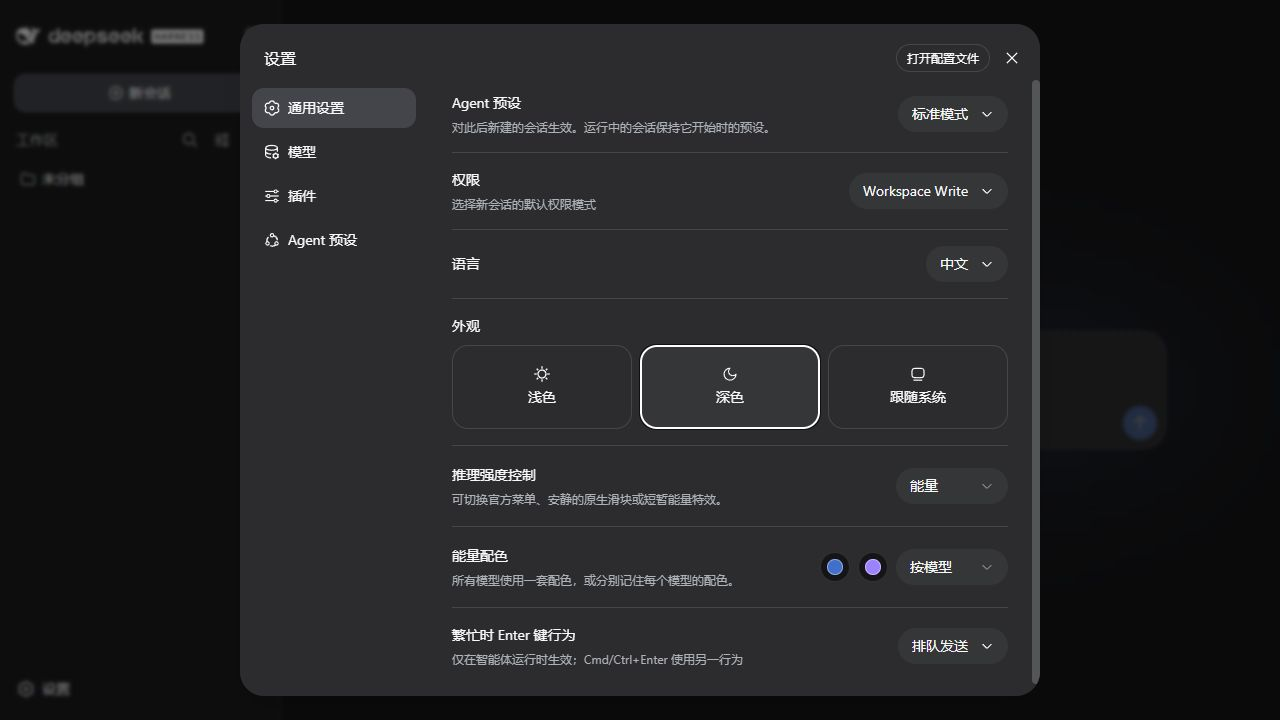
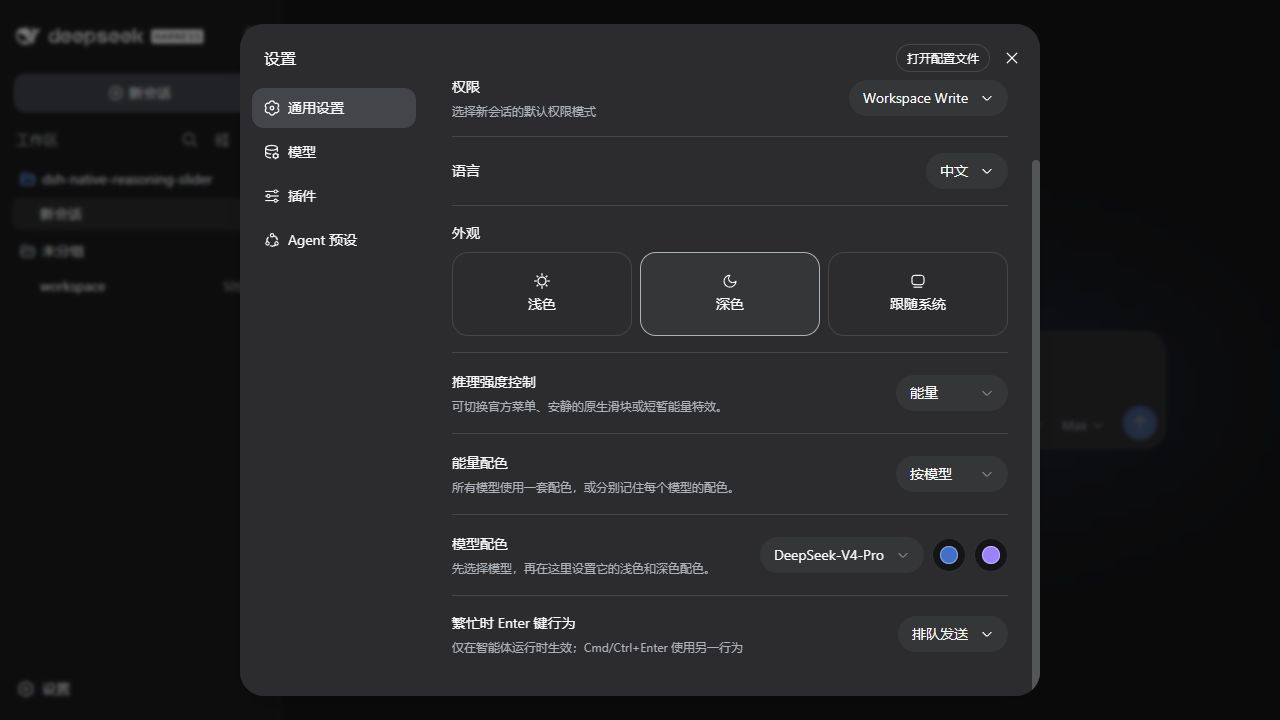
fix: keep color customization in settings

diff --git a/src/client.jsx b/src/client.jsx
@@ -34,6 +34,7 @@ const STORAGE_KEY = 'dsh-native-reasoning-slider.mode'
 const APPEARANCE_KEY = 'dsh-native-reasoning-slider.appearance.v1'
 const listeners = new Set()
 const appearanceListeners = new Set()
+const modelChoiceListeners = new Set()
 
 function storedMode() {
   try { return normalizeMode(window.localStorage.getItem(STORAGE_KEY)) } catch { return 'energy' }
@@ -80,13 +81,26 @@ export const appearanceStore = {
   },
 }
 
+let modelColorChoices = []
+export const modelChoicesStore = {
+  getSnapshot: () => modelColorChoices,
+  subscribe(listener) { modelChoiceListeners.add(listener); return () => modelChoiceListeners.delete(listener) },
+  set(choices) {
+    const next = choices.map(choice => ({ ...choice }))
+    if (JSON.stringify(next) === JSON.stringify(modelColorChoices)) return
+    modelColorChoices = next
+    modelChoiceListeners.forEach(listener => listener())
+  },
+}
+
 const LOCALES = {
   en: {
     settingTitle: 'Reasoning control', settingDescription: 'Use the official menu, a quiet native slider, or transient energy effects.',
     official: 'Official', native: 'Native', energy: 'Energy', model: 'Model', effort: 'Effort', retry: 'Retry',
     colorAssignment: 'Energy colors', colorDescription: 'Use one palette for every model, or remember a palette for each model.',
     allModels: 'All models', eachModel: 'Per model', lightColor: 'Light appearance', darkColor: 'Dark appearance',
-    modelColors: 'Model colors', modelColorsDescription: 'This palette applies to the selected model.',
+    allModelColors: 'Default palette', allModelColorsDescription: 'Used by every model unless per-model colors are enabled.',
+    modelColors: 'Model palette', modelColorsDescription: 'Choose a model, then set its light and dark colors here.',
     loading: 'Loading models…', noModels: 'No available models.', noEfforts: 'This model does not expose reasoning effort levels.',
     selectionFailed: 'The setting was not saved. {message}', groupFailed: '{name}: {message}', selectModel: 'Select model',
   },
@@ -95,7 +109,8 @@ const LOCALES = {
     official: '官方', native: '原生', energy: '能量', model: '模型', effort: '推理强度', retry: '重试',
     colorAssignment: '能量配色', colorDescription: '所有模型使用一套配色，或分别记住每个模型的配色。',
     allModels: '全部模型', eachModel: '按模型', lightColor: '浅色外观', darkColor: '深色外观',
-    modelColors: '模型配色', modelColorsDescription: '这组配色仅应用于当前模型。',
+    allModelColors: '默认配色', allModelColorsDescription: '未启用按模型配色时，所有模型使用这组颜色。',
+    modelColors: '模型配色', modelColorsDescription: '先选择模型，再在这里设置它的浅色和深色配色。',
     loading: '正在加载模型…', noModels: '没有可用模型。', noEfforts: '当前模型未提供推理强度档位。',
     selectionFailed: '设置未保存。{message}', groupFailed: '{name}：{message}', selectModel: '选择模型',
   },
@@ -193,7 +208,6 @@ function EffortSlider({ current, reasoning, select, busy, mode, onFailure, t }) 
           onBlur={event => { if (dragging) void commitAt(Number(event.currentTarget.value)) }}
         />
       </div>
-      {mode === 'energy' && appearance.scope === 'model' ? <div className="nrs-model-colors"><span className="nrs-model-colors-copy"><strong>{t('modelColors')}</strong><small>{t('modelColorsDescription')}</small></span><ColorInput label={t('lightColor')} value={colors.light} onChange={value => appearanceStore.setModel(current.provider, current.model, 'light', value)} /><ColorInput label={t('darkColor')} value={colors.dark} onChange={value => appearanceStore.setModel(current.provider, current.model, 'dark', value)} /></div> : null}
     </section>
   )
 }
@@ -236,6 +250,16 @@ function ModelSliderSelect({ locked, available, directory, load, select, t }) {
     return () => { window.removeEventListener('resize', place); window.removeEventListener('scroll', place, true) }
   }, [open])
   const choices = useMemo(() => state.groups.flatMap(group => group.models.map(model => ({ group, model }))), [state.groups])
+  useEffect(() => {
+    if (!available) { modelChoicesStore.set([]); return }
+    modelChoicesStore.set(choices.map(({ group, model }) => ({
+      id: modelColorKey(group.id, model.id),
+      label: model.name,
+      provider: group.id,
+      model: model.id,
+      current: state.current?.provider === group.id && state.current?.model === model.id,
+    })))
+  }, [available, choices, state.current?.provider, state.current?.model])
   if (!available) return null
   const currentChoice = state.current === null ? undefined : choices.find(entry => entry.group.id === state.current.provider && entry.model.id === state.current.model)
   const reasoning = currentChoice?.model.reasoning
@@ -312,8 +336,8 @@ function ModelSliderSelect({ locked, available, directory, load, select, t }) {
   )
 }
 
-function ColorInput({ label, onChange, value }) {
-  return <label className="nrs-color-control" title={label}><input type="color" value={value} aria-label={label} onChange={event => onChange(event.currentTarget.value)} /><span aria-hidden="true" style={{ background: value }} /></label>
+function ColorInput({ disabled = false, label, onChange, value }) {
+  return <label className={`nrs-color-control ${disabled ? 'is-disabled' : ''}`} title={label}><input type="color" value={value} aria-label={label} disabled={disabled} onChange={event => onChange(event.currentTarget.value)} /><span aria-hidden="true" style={{ background: value }} /></label>
 }
 
 function SettingsMenu({ items, onSelect, selected, t }) {
@@ -321,13 +345,32 @@ function SettingsMenu({ items, onSelect, selected, t }) {
   return <Menu open={open} align="end" side="bottom" portal compact selectedId={selected} items={items.map(entry => ({ id: entry, label: t(entry) }))} onSelect={entry => { onSelect(entry); setOpen(false) }} onClose={() => setOpen(false)} anchor={<button type="button" className="nrs-mode-picker" aria-haspopup="menu" aria-expanded={open} onClick={() => setOpen(value => !value)}><span>{t(selected)}</span><IconChevronDownOutline14 className={`nrs-chevron ${open ? 'is-open' : ''}`} /></button>} />
 }
 
+function ModelSettingsMenu({ choices, onSelect, selected, t }) {
+  const [open, setOpen] = useState(false)
+  const selectedChoice = choices.find(choice => choice.id === selected)
+  return <Menu open={open} align="end" side="bottom" portal compact selectedId={selected} items={choices.map(choice => ({ id: choice.id, label: choice.label }))} onSelect={entry => { onSelect(entry); setOpen(false) }} onClose={() => setOpen(false)} anchor={<button type="button" className="nrs-mode-picker nrs-model-picker" disabled={choices.length === 0} aria-haspopup="menu" aria-expanded={open} onClick={() => setOpen(value => !value)}><span>{selectedChoice?.label ?? t('selectModel')}</span><IconChevronDownOutline14 className={`nrs-chevron ${open ? 'is-open' : ''}`} /></button>} />
+}
+
 function PluginSettings({ t }) {
   const mode = useSyncExternalStore(modeStore.subscribe, modeStore.getSnapshot)
   const appearance = useSyncExternalStore(appearanceStore.subscribe, appearanceStore.getSnapshot)
+  const modelColorChoices = useSyncExternalStore(modelChoicesStore.subscribe, modelChoicesStore.getSnapshot)
   const scope = appearance.scope === 'model' ? 'eachModel' : 'allModels'
+  const [selectedPaletteModel, setSelectedPaletteModel] = useState('')
+  useEffect(() => {
+    if (modelColorChoices.some(choice => choice.id === selectedPaletteModel)) return
+    setSelectedPaletteModel(modelColorChoices.find(choice => choice.current)?.id ?? modelColorChoices[0]?.id ?? '')
+  }, [modelColorChoices, selectedPaletteModel])
+  const selectedChoice = modelColorChoices.find(choice => choice.id === selectedPaletteModel)
+  const palette = selectedChoice === undefined ? appearance.global : resolveColors({ ...appearance, scope: 'model' }, selectedChoice.provider, selectedChoice.model)
+  const setPaletteColor = (theme, value) => {
+    if (appearance.scope === 'model' && selectedChoice !== undefined) appearanceStore.setModel(selectedChoice.provider, selectedChoice.model, theme, value)
+    else appearanceStore.setGlobal(theme, value)
+  }
   return <>
     <div className="nrs-mode-row"><div className="nrs-mode-copy"><div className="nrs-mode-title">{t('settingTitle')}</div><div className="nrs-mode-description">{t('settingDescription')}</div></div><SettingsMenu items={['official', 'native', 'energy']} selected={mode} onSelect={modeStore.set} t={t} /></div>
-    <div className="nrs-mode-row"><div className="nrs-mode-copy"><div className="nrs-mode-title">{t('colorAssignment')}</div><div className="nrs-mode-description">{t('colorDescription')}</div></div><div className="nrs-setting-actions"><ColorInput label={t('lightColor')} value={appearance.global.light} onChange={value => appearanceStore.setGlobal('light', value)} /><ColorInput label={t('darkColor')} value={appearance.global.dark} onChange={value => appearanceStore.setGlobal('dark', value)} /><SettingsMenu items={['allModels', 'eachModel']} selected={scope} onSelect={entry => appearanceStore.setScope(entry === 'eachModel' ? 'model' : 'global')} t={t} /></div></div>
+    <div className="nrs-mode-row"><div className="nrs-mode-copy"><div className="nrs-mode-title">{t('colorAssignment')}</div><div className="nrs-mode-description">{t('colorDescription')}</div></div><SettingsMenu items={['allModels', 'eachModel']} selected={scope} onSelect={entry => appearanceStore.setScope(entry === 'eachModel' ? 'model' : 'global')} t={t} /></div>
+    <div className="nrs-mode-row"><div className="nrs-mode-copy"><div className="nrs-mode-title">{t(appearance.scope === 'model' ? 'modelColors' : 'allModelColors')}</div><div className="nrs-mode-description">{t(appearance.scope === 'model' ? 'modelColorsDescription' : 'allModelColorsDescription')}</div></div><div className="nrs-setting-actions">{appearance.scope === 'model' ? <ModelSettingsMenu choices={modelColorChoices} selected={selectedPaletteModel} onSelect={setSelectedPaletteModel} t={t} /> : null}<ColorInput disabled={appearance.scope === 'model' && selectedChoice === undefined} label={t('lightColor')} value={palette.light} onChange={value => setPaletteColor('light', value)} /><ColorInput disabled={appearance.scope === 'model' && selectedChoice === undefined} label={t('darkColor')} value={palette.dark} onChange={value => setPaletteColor('dark', value)} /></div></div>
   </>
 }
 

diff --git a/src/styles.js b/src/styles.js
@@ -35,12 +35,13 @@ export const CSS = String.raw`
 .nrs-effort.is-energy.is-max.is-active .nrs-track-thumb{animation:nrs-max-charge 720ms ease-out both,nrs-max-breathe 520ms ease-in-out 720ms 2 alternate}
 body[data-ds-dark-theme] .nrs-track-fill{background:color-mix(in srgb,var(--nrs-color) 34%,var(--dsw-alias-bg-base))}body[data-ds-dark-theme] .nrs-energy{mix-blend-mode:screen}
 .nrs-effort.is-max.is-active::after{content:"";position:absolute;z-index:1;right:-20px;top:50%;width:118px;height:118px;border-radius:50%;background:radial-gradient(circle,color-mix(in srgb,var(--nrs-color) 62%,white 8%) 0,color-mix(in srgb,var(--nrs-color) 32%,transparent) 38%,transparent 70%);transform:translateY(-50%);animation:nrs-bloom 620ms ease-out both;pointer-events:none}
-.nrs-model-colors{display:flex;align-items:center;gap:8px;margin-top:8px;padding-top:8px;border-top:1px solid var(--dsw-alias-border-l2)}.nrs-model-colors-copy{display:flex;flex:1;flex-direction:column;min-width:0}.nrs-model-colors-copy strong{font-size:11px;line-height:16px;font-weight:500}.nrs-model-colors-copy small{overflow:hidden;color:var(--dsw-alias-label-tertiary);font-size:10px;line-height:14px;text-overflow:ellipsis;white-space:nowrap}.nrs-color-control{position:relative;display:grid;place-items:center;flex:0 0 30px;width:30px;height:30px;border-radius:15px;background:var(--dsw-alias-bg-base);box-shadow:inset 0 0 0 1px var(--dsw-alias-border-l2);cursor:pointer}.nrs-color-control input{position:absolute;width:1px;height:1px;opacity:0}.nrs-color-control span{width:16px;height:16px;border-radius:50%;background:var(--nrs-swatch);box-shadow:inset 0 0 0 1px #ffffff70,0 0 0 1px #00000014}
+.nrs-color-control{position:relative;display:grid;place-items:center;flex:0 0 34px;width:34px;height:34px;border-radius:17px;background:var(--dsw-alias-bg-base);box-shadow:inset 0 0 0 1px var(--dsw-alias-border-l2);cursor:pointer}.nrs-color-control input{position:absolute;width:1px;height:1px;opacity:0}.nrs-color-control span{width:18px;height:18px;border-radius:50%;background:var(--nrs-swatch);box-shadow:inset 0 0 0 1px #ffffff70,0 0 0 1px #00000014}.nrs-color-control.is-disabled{opacity:.45;cursor:default}
 .nrs-mode-row{display:flex;align-items:center;gap:16px;width:100%;border-bottom:1px solid var(--dsw-alias-border-l2);padding:18px 0}.nrs-mode-copy{display:flex;flex:1;flex-direction:column;gap:4px;min-width:0}.nrs-mode-title{color:var(--dsw-alias-label-primary);font-size:14px;line-height:22px;font-weight:400}.nrs-mode-description{max-width:460px;color:var(--dsw-alias-label-tertiary);font-size:12px;line-height:18px}.nrs-setting-actions{display:flex;align-items:center;gap:8px;flex:none}.nrs-mode-picker{display:inline-flex;align-items:center;justify-content:space-between;gap:12px;min-width:112px;height:36px;padding:0 14px;border:0;border-radius:18px;outline:0;background:var(--dsw-alias-bg-module-platform);color:var(--dsw-alias-label-primary);font-family:inherit;font-size:14px;line-height:22px;cursor:pointer}.nrs-mode-picker:hover:not(:disabled){background:var(--dsw-alias-interactive-bg-hover)}.nrs-mode-picker:focus-visible{box-shadow:0 0 0 2px var(--dsw-alias-border-l3)}
+.nrs-model-picker{max-width:220px;min-width:152px}.nrs-model-picker span{overflow:hidden;text-overflow:ellipsis;white-space:nowrap}.nrs-mode-picker:disabled{color:var(--dsw-alias-label-dimmed);cursor:default}
 @keyframes nrs-bloom{0%{opacity:0;transform:translateY(-50%) scale(.55)}36%{opacity:1}100%{opacity:0;transform:translateY(-50%) scale(1.28)}}
 @keyframes nrs-max-charge{0%{transform:translate(-50%,-50%) scale(.9);filter:brightness(1)}38%{transform:translate(-50%,-50%) scale(1.12);filter:brightness(1.24)}100%{transform:translate(-50%,-50%) scale(1);filter:brightness(1)}}
 @keyframes nrs-max-breathe{from{box-shadow:0 0 0 1px #ffffffb8,0 0 18px color-mix(in srgb,var(--nrs-color) 58%,transparent),0 3px 8px #00000030}to{box-shadow:0 0 0 2px #ffffffd4,0 0 29px color-mix(in srgb,var(--nrs-color) 82%,transparent),0 3px 8px #00000030}}
 @media(max-width:640px){.nrs-mode-row{align-items:flex-start;flex-direction:column;gap:10px}.nrs-setting-actions{width:100%;justify-content:flex-end}.nrs-mode-row>.nrs-mode-picker{align-self:flex-end}}
-@media(max-width:480px){.nrs-effort-popover{right:-48px;width:min(276px,calc(100vw - 88px))}.nrs-model-colors-copy small{display:none}}
+@media(max-width:480px){.nrs-effort-popover{right:-48px;width:min(276px,calc(100vw - 88px))}}
 @media(prefers-reduced-motion:reduce){.nrs-chevron,.nrs-track-glow,.nrs-track-flare,.nrs-track-thumb{transition:none}.nrs-effort.is-max.is-active::after{display:none}.nrs-effort.is-energy.is-max.is-active .nrs-track-thumb{animation:none}}
 `

diff --git a/design-qa.md b/design-qa.md
@@ -18,7 +18,7 @@
 
 - The control stays inside the DSH composer and uses the native menu surface, type, dividers, shadows, spacing, and setting-row rhythm.
 - The formal control intentionally removes Claude's surrounding black product card and Faster/Smarter copy; those elements would conflict with DSH's compact model contract. It retains the selected visual core: cellular energy progression, bright endpoint, and white rounded thumb.
-- At 390 x 760, the popover moves right of the collapsed sidebar, all four labels remain visible, the white thumb keeps edge breathing room, and the per-model footer remains inside the viewport.
+- At 390 x 760, the popover moves right of the collapsed sidebar, all four labels remain visible, and the white thumb keeps edge breathing room. Persistent color controls stay out of the composer and live in Settings.
 
 ## Focused comparison evidence
 
@@ -42,7 +42,7 @@
 - Selected Low and Max through DSH's model-selection contract; the composer trigger updated to the committed value.
 - Escape closed the popover and restored the compact composer state.
 - Official mode removed the replacement effort control; Native restored it; Energy restored the WebGL presentation.
-- Global/per-model scope switched and light/dark color controls rendered in both themes.
+- Global/per-model scope switched; model selection plus light/dark color controls rendered in Settings in both themes, with no color controls in the composer popover.
 - Fresh official DSH browser sessions reported no console errors or warnings during stable interaction.
 
 ## Findings

diff --git a/README.md b/README.md
@@ -45,10 +45,11 @@ The plugin market remains the place to install, update, disable, or remove the
 plugin. The setting changes presentation without installing duplicate plugins.
 
 Energy mode starts with restrained blue in light appearance and violet in dark
-appearance. Both colors are editable. Choose **All models** for one palette, or
-**Per model** and set the selected model's two swatches directly in its effort
-popover. The motion is Claude-inspired, but the implementation and model
-contract are provider-neutral.
+appearance. Both colors are editable from DSH Settings. Choose **All models**
+for one palette, or **Per model** and select each model's light and dark colors
+in the settings page. The composer popover stays focused on effort control.
+The motion is Claude-inspired, but the implementation and model contract are
+provider-neutral.
 
 <p align="center">
   <img src="https://raw.githubusercontent.com/WSL043/dsh-native-reasoning-slider/main/docs/assets/mode-settings-en.png" width="820" alt="Official, Native, and Energy presentation modes in DSH Settings">
